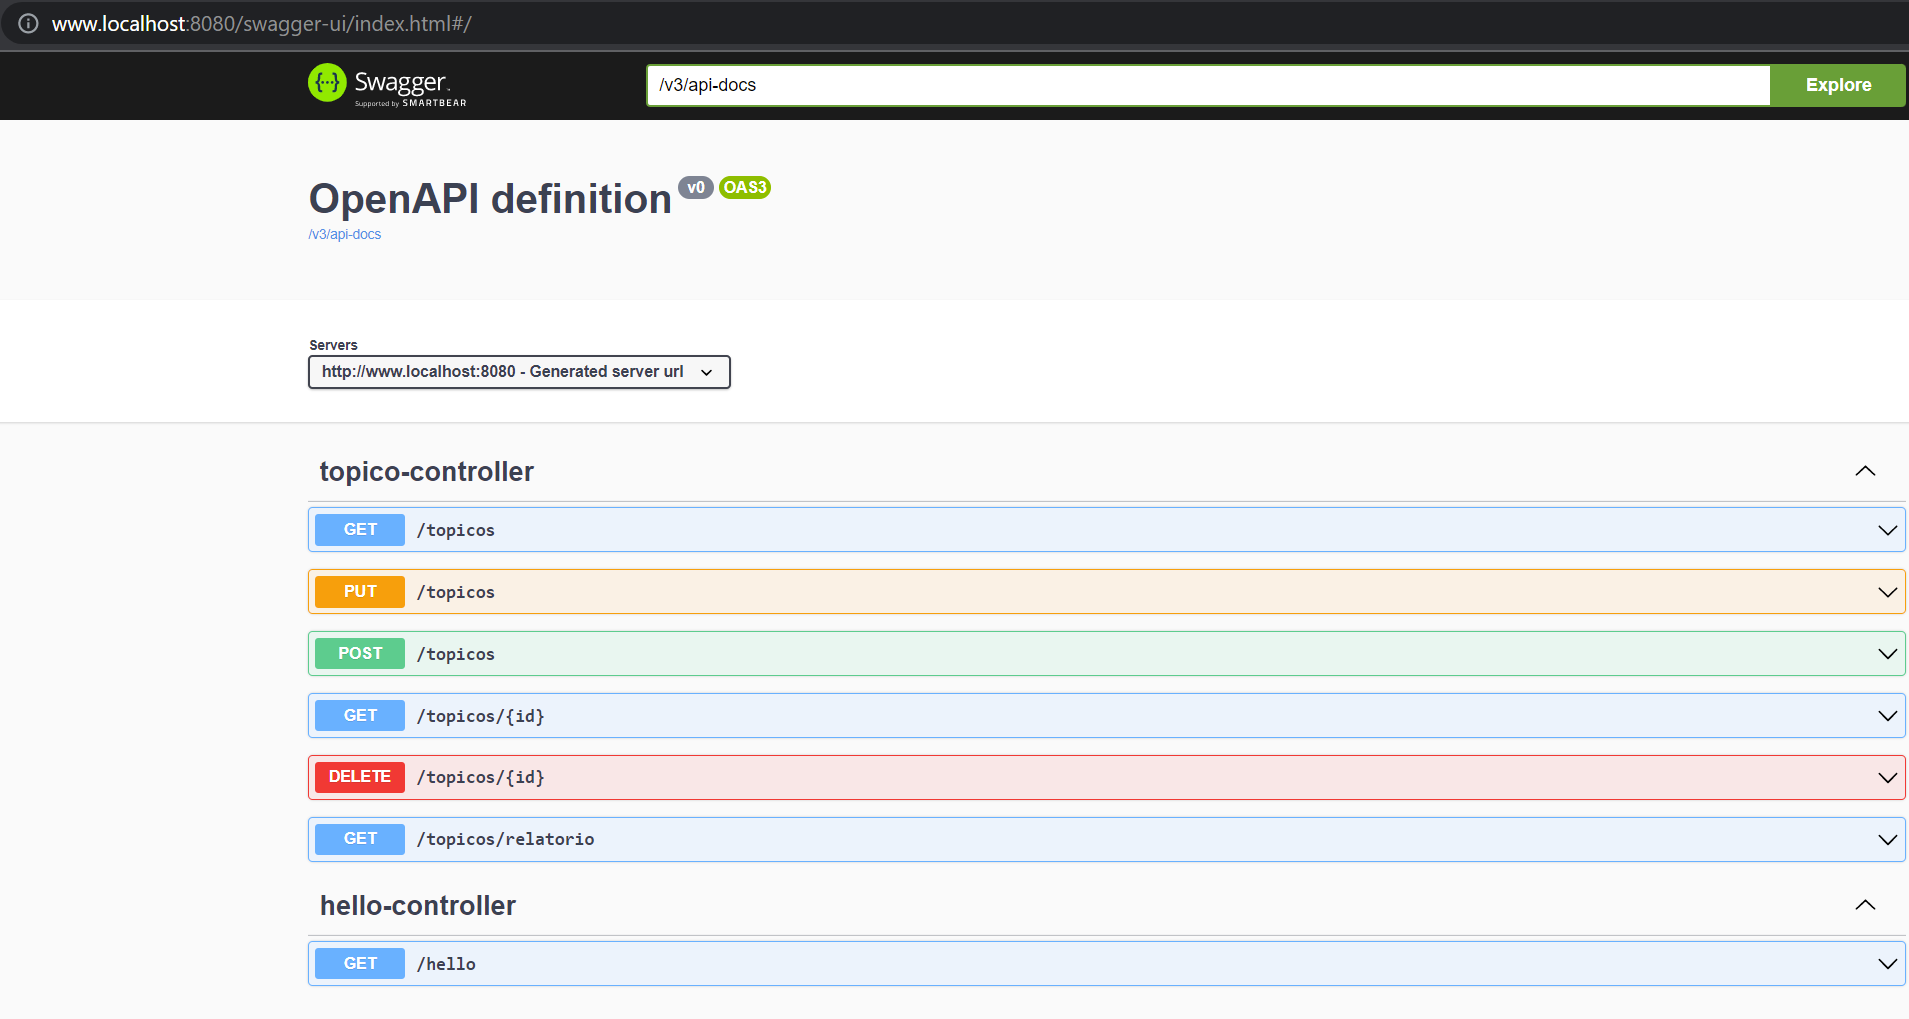
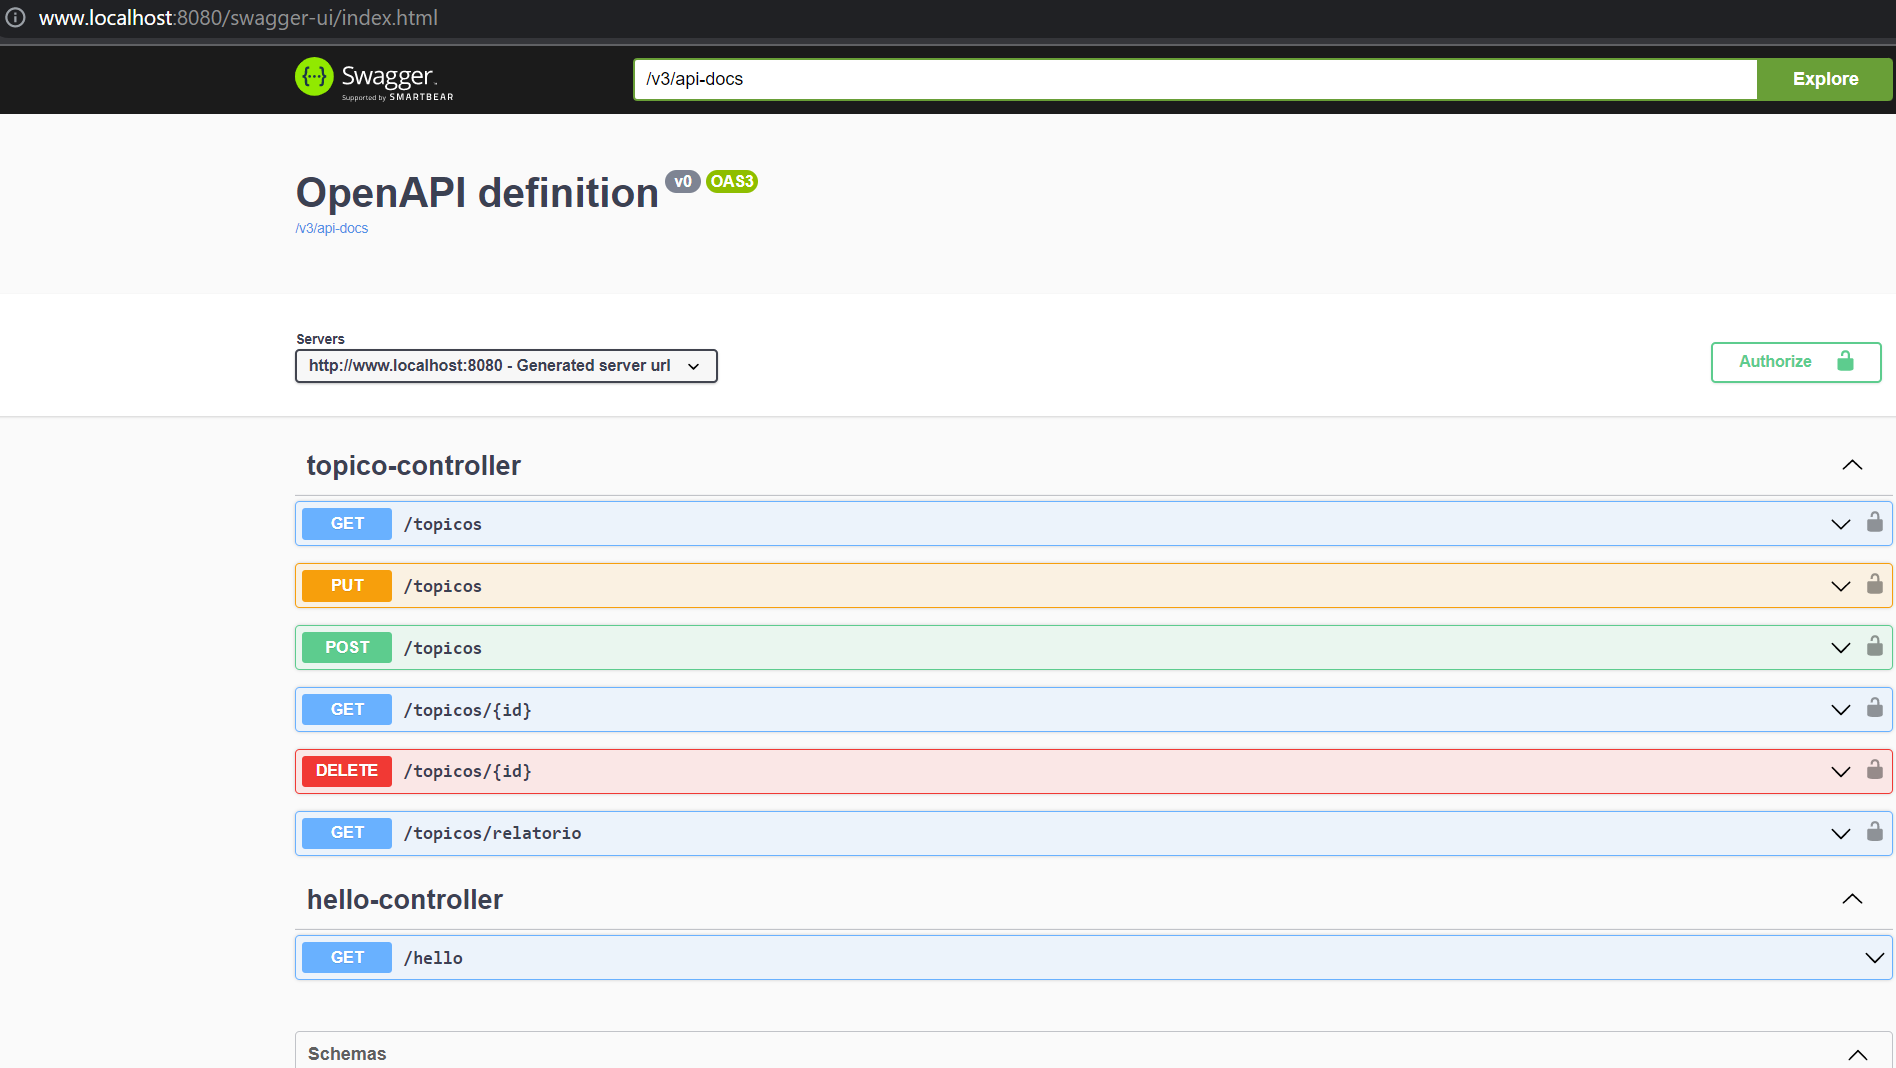
documentacao da api com swagger

diff --git a/src/main/kotlin/br/com/alura/forum/controller/TopicoController.kt b/src/main/kotlin/br/com/alura/forum/controller/TopicoController.kt
@@ -5,6 +5,7 @@ import br.com.alura.forum.dto.NovoTopicoForm
 import br.com.alura.forum.dto.TopicoPorCategoriaDto
 import br.com.alura.forum.dto.TopicoView
 import br.com.alura.forum.service.TopicoService
+import io.swagger.v3.oas.annotations.security.SecurityRequirement
 import org.springframework.cache.annotation.CacheEvict
 import org.springframework.cache.annotation.Cacheable
 import org.springframework.data.domain.Page
@@ -20,6 +21,7 @@ import javax.validation.Valid
 
 @RestController
 @RequestMapping("/topicos")
+@SecurityRequirement(name = "bearerAuth")
 class TopicoController(private val service: TopicoService) {
 
     @GetMapping

diff --git a/src/main/kotlin/br/com/alura/forum/config/SwaggerConfiguration.kt b/src/main/kotlin/br/com/alura/forum/config/SwaggerConfiguration.kt
@@ -1,0 +1,15 @@
+package br.com.alura.forum.config
+
+import io.swagger.v3.oas.annotations.enums.SecuritySchemeType
+import io.swagger.v3.oas.annotations.security.SecurityScheme
+import org.springframework.context.annotation.Configuration
+
+@Configuration
+@SecurityScheme(
+    name = "bearerAuth",
+    type = SecuritySchemeType.HTTP,
+    bearerFormat = "JWT",
+    scheme = "bearer"
+)
+class SwaggerConfiguration {
+}

diff --git a/README.md b/README.md
@@ -294,8 +294,9 @@ spring:
 
 ## Documentado Api
 
-* utilizar o swag, que é uma ferramenta bastante utilizada também no mercado de documentação de API para documentar as nossas APIs de tópico.
+* Utilizar o swag, que é uma ferramenta bastante utilizada também no mercado de documentação de API para documentar as nossas APIs de tópico.
 * Biblioteca Springdoc OpenAPI UI
+* Utilizar a interface gráfica do Swagger para realizar requisições para APIs. Para isso é necessário inserir a dependência no pom.xml da aplicação. Dessa maneira, já serão reconhecidos os endpoints da aplicação;
 * http://www.localhost:8080/swagger-ui/index.html
 
 ```
@@ -306,6 +307,20 @@ spring:
     <version>1.6.9</version>
 </dependency>
 
+```
+
+* Configuração do Swagger para fazer requisições via interface utilizando um token JWT.
+* @SecurityRequirement(name = "bearerAuth") na classe TopicoController
+```
+@Configuration
+@SecurityScheme(
+    name = "bearerAuth",
+    type = SecuritySchemeType.HTTP,
+    bearerFormat = "JWT",
+    scheme = "bearer"
+)
+class SwaggerConfiguration {
+}
 ```
 
 ![swagger](/image/swagger.png)
